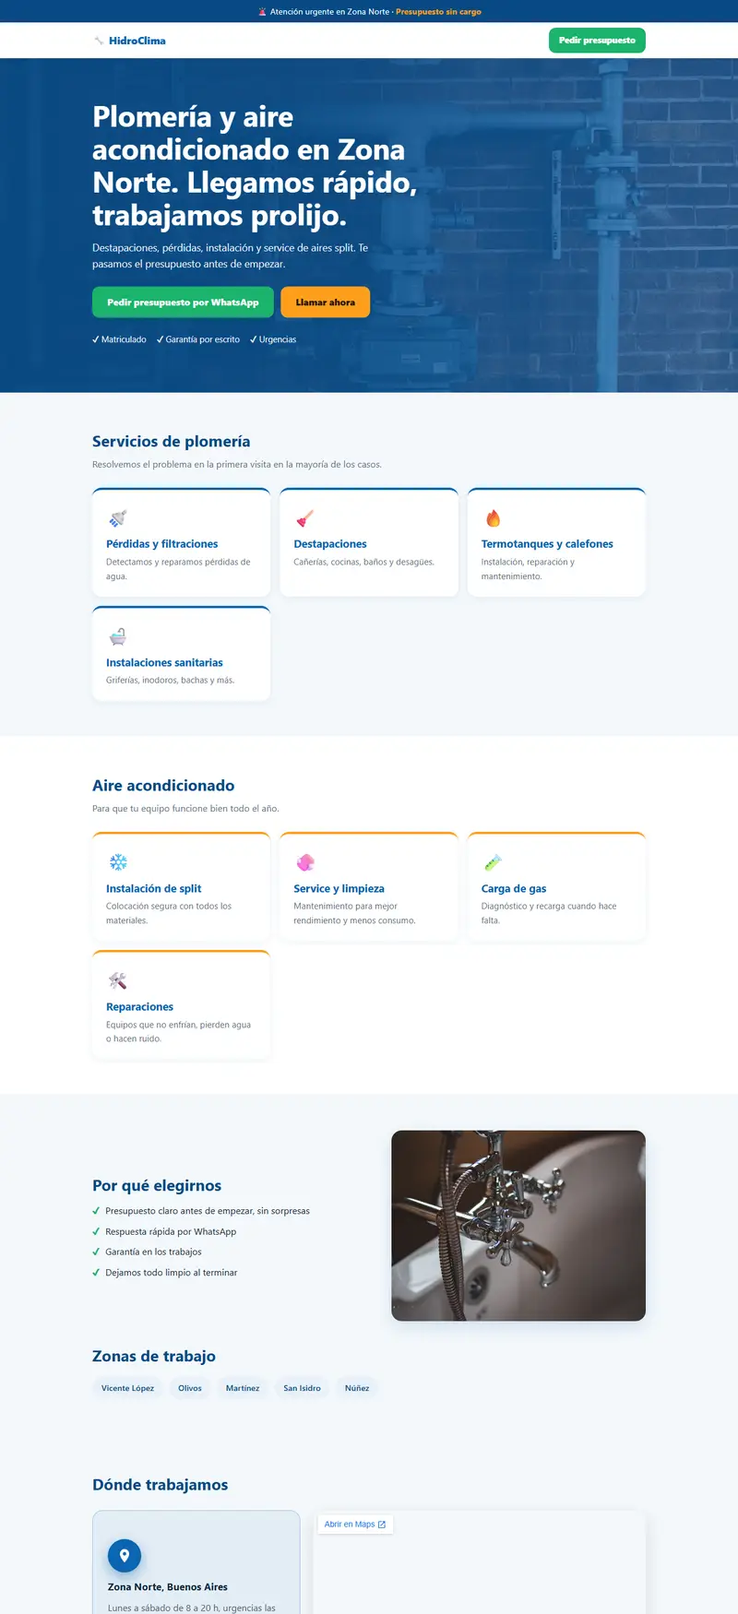
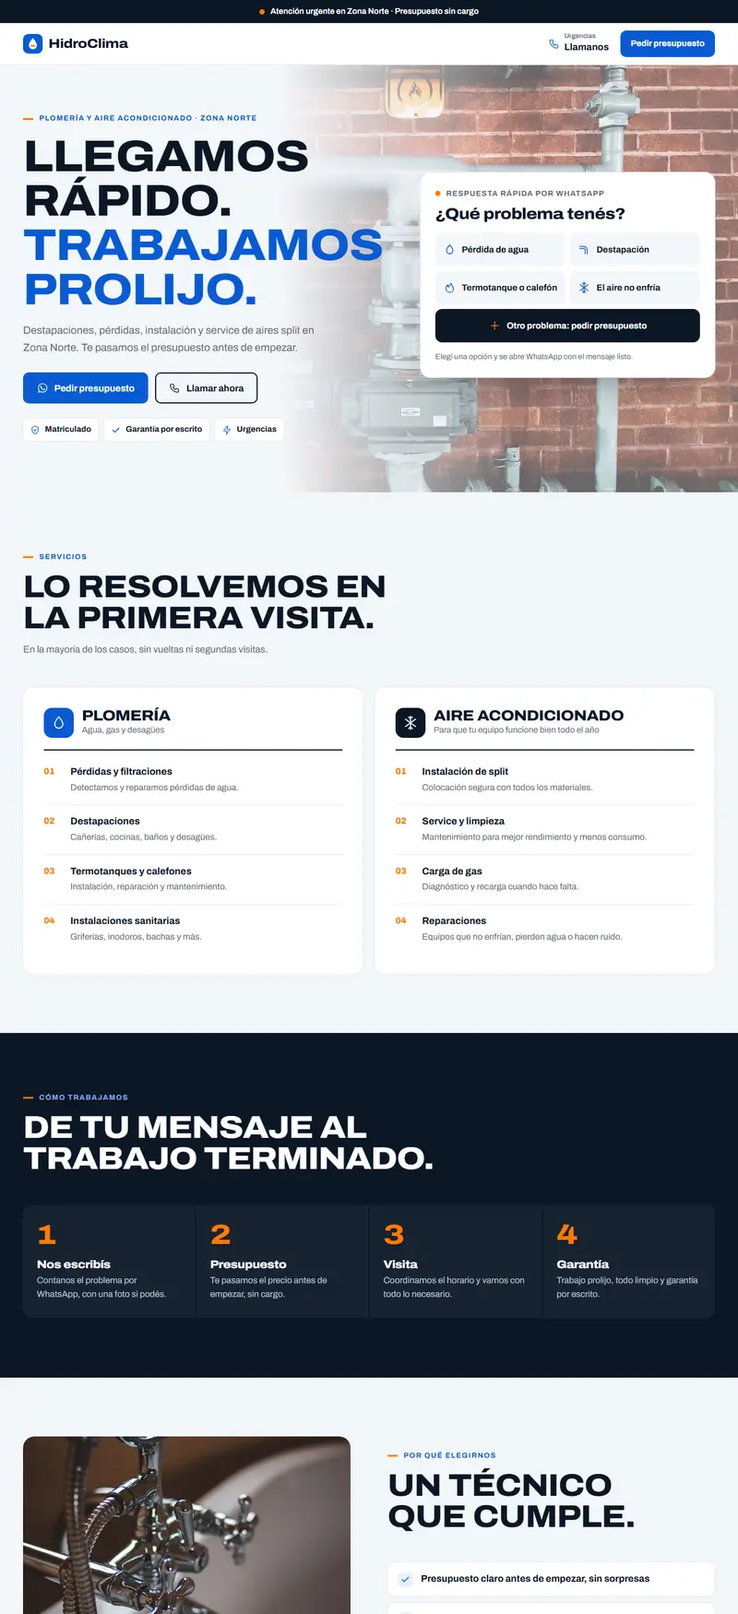
Demo HidroClima rediseñada: identidad técnica, selector de problema con WhatsApp y barra fija en celular

diff --git a/public/demos/servicio-tecnico/index.html b/public/demos/servicio-tecnico/index.html
@@ -3,155 +3,94 @@
 <head>
 <meta charset="UTF-8">
 <meta name="viewport" content="width=device-width, initial-scale=1">
-<title>HidroClima Servicios | Plomero y técnico de aire acondicionado en Zona Norte, CABA</title>
-<meta name="description" content="Plomería y aire acondicionado en Zona Norte, CABA: destapaciones, pérdidas, instalación y service de split. Presupuesto sin cargo y atención urgente.">
-<style>
-:root{--bg:#f4f8fb;--panel:#fff;--txt:#10283a;--suave:#5b7285;--azul:#0b64b0;--azul2:#084a85;--nar:#ff9f1c;--verde:#1bb36b}
-*{box-sizing:border-box;margin:0;padding:0}
-html{scroll-behavior:smooth}
-body{font-family:system-ui,-apple-system,"Segoe UI",Roboto,sans-serif;background:var(--bg);color:var(--txt);line-height:1.6}
-a{color:inherit;text-decoration:none}
-.wrap{max-width:1000px;margin:0 auto;padding:0 20px}
-.top{background:var(--azul2);color:#fff;font-size:.9rem;text-align:center;padding:8px}
-.top b{color:var(--nar)}
-header{position:sticky;top:0;background:#fff;box-shadow:0 1px 8px #0001;z-index:10}
-header .wrap{display:flex;justify-content:space-between;align-items:center;height:62px;gap:10px}
-.logo{font-weight:900;color:var(--azul);font-size:1.1rem}
-.btn{display:inline-block;background:var(--verde);color:#fff;font-weight:800;padding:14px 26px;border-radius:12px;transition:.2s}
-.btn:hover{transform:translateY(-2px);box-shadow:0 8px 20px #1bb36b55}
-.btn.s{padding:10px 18px;font-size:.92rem}
-.btn.n{background:var(--nar);color:#2a1700}
-.btn.n:hover{box-shadow:0 8px 20px #ff9f1c66}
-.hero{background:linear-gradient(110deg,#084a85f5 35%,#0b64b0aa),url(https://images.unsplash.com/photo-1607472586893-edb57bdc0e39?auto=format&fit=crop&w=1400&q=60) center/cover;color:#fff;padding:70px 0 80px}
-.hero h1{font-size:clamp(1.9rem,6vw,3.1rem);line-height:1.15;max-width:700px}
-.hero p{opacity:.92;max-width:540px;margin:16px 0 26px;font-size:1.1rem}
-.cta{display:flex;gap:12px;flex-wrap:wrap}
-.pts{display:flex;gap:18px;flex-wrap:wrap;margin-top:26px;font-size:.92rem;opacity:.95}
-section{padding:62px 0}
-h2{font-size:1.7rem;color:var(--azul2);margin-bottom:6px}
-.sub{color:var(--suave);margin-bottom:28px}
-.grid{display:grid;grid-template-columns:repeat(auto-fit,minmax(230px,1fr));gap:16px}
-.card{background:var(--panel);border-radius:16px;padding:24px;box-shadow:0 2px 12px #0b64b01a;transition:.25s;border-top:4px solid var(--azul)}
-.card:hover{transform:translateY(-4px)}
-.card.ac{border-top-color:var(--nar)}
-.card .ic{font-size:1.9rem}
-.card h3{color:var(--azul);margin:6px 0 4px}
-.card p{color:var(--suave);font-size:.95rem}
-.alt{background:#fff}
-.ul{list-style:none;display:grid;gap:10px;margin-top:10px}
-.ul li::before{content:"✔";color:var(--verde);margin-right:10px;font-weight:800}
-.zonas{display:flex;flex-wrap:wrap;gap:10px;margin-top:14px}
-.zonas span{background:#e8f1f9;color:var(--azul2);padding:8px 16px;border-radius:999px;font-weight:600;font-size:.9rem}
-.cierre{background:var(--azul2);color:#fff;text-align:center}
-.cierre h2{color:#fff}.cierre p{opacity:.92;margin:8px 0 24px}
-.split{display:grid;grid-template-columns:1.1fr 1fr;gap:34px;align-items:center}.split img{width:100%;aspect-ratio:4/3;object-fit:cover;border-radius:18px;box-shadow:0 10px 30px #0b64b02a}@media(max-width:760px){.split{grid-template-columns:1fr}}
-footer{padding:20px 0;text-align:center;color:var(--suave);font-size:.85rem}
-.bar{display:none}
-@media(max-width:640px){
- .bar{display:grid;grid-template-columns:1fr 1fr;position:fixed;left:0;right:0;bottom:0;z-index:30}
- .bar a{padding:16px;text-align:center;font-weight:800;color:#fff}
- .bar a:first-child{background:var(--azul)}.bar a:last-child{background:var(--verde)}
- body{padding-bottom:54px}
-}
-.reveal{opacity:0;transform:translateY(20px);transition:all .6s}.reveal.on{opacity:1;transform:none}
-.demo-ribbon{position:fixed;left:50%;bottom:14px;transform:translateX(-50%);z-index:50;display:flex;gap:10px;align-items:center;background:#0b0f14e6;color:#e8eef5;font:600 .78rem/1 system-ui,sans-serif;padding:9px 14px;border-radius:999px;box-shadow:0 6px 20px #0005;backdrop-filter:blur(6px);white-space:nowrap}
-.demo-ribbon a{color:#3ddc97}.embed .demo-ribbon{display:none}
-@media(max-width:640px){.demo-ribbon{bottom:auto;top:auto;position:static;transform:none;justify-content:center;border-radius:0;box-shadow:none}}
-:root{--fx:#0b64b0}.card.ac{--fx:#ff9f1c}
-.mapa{margin-top:22px;border-radius:16px;overflow:hidden;height:300px;box-shadow:0 4px 18px #0b64b022}.mapa iframe{width:100%;height:100%;border:0}
-</style>
-<link rel="stylesheet" href="../_fx/fx.css">
-<noscript><style>.reveal{opacity:1!important;transform:none!important}
-</style></noscript>
+<title>HidroClima Servicios | Plomería y aire acondicionado en Zona Norte</title>
+<meta name="description" content="Plomería y aire acondicionado en Zona Norte. Destapaciones, pérdidas, termotanques e instalación de split. Presupuesto sin cargo y urgencias.">
+<meta name="theme-color" content="#0b1726">
+<link rel="preconnect" href="https://fonts.googleapis.com"><link rel="preconnect" href="https://fonts.gstatic.com" crossorigin>
+<link rel="stylesheet" href="https://fonts.googleapis.com/css2?family=Archivo:wdth,wght@100..125,400..800&display=swap">
+<link rel="stylesheet" href="estilo.css">
+<link rel="stylesheet" href="../_fx/base.css">
+<script type="application/ld+json">{"@context":"https://schema.org","@type":"Plumber","name":"HidroClima Servicios","areaServed":"Zona Norte","telephone":"+5491100000000","openingHours":"Mo-Sa 08:00-20:00"}</script>
 </head>
 <body>
 <script>if(top!==self)document.documentElement.classList.add("embed")</script><div class="demo-ribbon">Proyecto demo · Página Start · datos ficticios <a href="../../">← Volver a Coudexia</a></div>
-
-<div class="top">🚨 Atención urgente en Zona Norte · <b>Presupuesto sin cargo</b></div>
+<div class="urgente"><div class="wrap"><span class="punto"></span>Atención urgente en Zona Norte · Presupuesto sin cargo</div></div>
 <header><div class="wrap">
-  <div class="logo">🔧 HidroClima</div>
-  <a class="btn s" href="https://wa.me/5491100000000?text=Hola!%20Necesito%20un%20presupuesto">Pedir presupuesto</a>
+  <span class="logo"><svg viewBox="0 0 34 34" aria-hidden="true"><rect width="34" height="34" rx="9" fill="var(--principal)"/><path d="M17 7s7 7.8 7 12.6A7 7 0 0 1 10 19.6C10 14.8 17 7 17 7Z" fill="#fff"/><path d="M13.5 20.5h7" stroke="var(--alerta)" stroke-width="2.4" stroke-linecap="round"/></svg>HidroClima</span>
+  <a class="tel-head" href="tel:+5491100000000"><svg viewBox="0 0 24 24" fill="none" stroke="currentColor" stroke-width="1.6" stroke-linecap="round" stroke-linejoin="round" aria-hidden="true"><path d="M5 4h4l2 5-2.5 1.5a11 11 0 0 0 5 5L15 13l5 2v4a2 2 0 0 1-2 2A16 16 0 0 1 3 6a2 2 0 0 1 2-2"/></svg><span><small>Urgencias</small>Llamanos</span></a>
+  <a class="btn cta-head" href="https://wa.me/5491100000000?text=Hola!%20Necesito%20un%20presupuesto">Pedir presupuesto</a>
 </div></header>
-
-<div class="hero"><div class="wrap">
-  <h1>Plomería y aire acondicionado en Zona Norte. Llegamos rápido, trabajamos prolijo.</h1>
-  <p>Destapaciones, pérdidas, instalación y service de aires split. Te pasamos el presupuesto antes de empezar.</p>
-  <div class="cta">
-    <a class="btn" href="https://wa.me/5491100000000?text=Hola!%20Necesito%20un%20presupuesto">Pedir presupuesto por WhatsApp</a>
-    <a class="btn n" href="tel:+5491100000000">Llamar ahora</a>
+<main>
+<section class="hero" style="--foto:url(https://images.unsplash.com/photo-1607472586893-edb57bdc0e39?auto=format&fit=crop&w=1600&q=70)"><div class="wrap">
+  <div>
+    <p class="marca-sec rv">Plomería y aire acondicionado · Zona Norte</p>
+    <h1 class="rv">Llegamos rápido. <span>Trabajamos prolijo.</span></h1>
+    <p class="lead rv">Destapaciones, pérdidas, instalación y service de aires split en Zona Norte. Te pasamos el presupuesto antes de empezar.</p>
+    <div class="cta-row rv"><a class="btn" href="https://wa.me/5491100000000?text=Hola!%20Necesito%20un%20presupuesto"><svg viewBox="0 0 32 32" fill="currentColor" aria-hidden="true"><path d="M16.04 3C8.86 3 3.03 8.82 3.03 16c0 2.3.6 4.53 1.74 6.5L3 29l6.68-1.75A12.95 12.95 0 0 0 16.04 29C23.2 29 29 23.18 29 16S23.2 3 16.04 3Zm0 23.66c-1.96 0-3.88-.53-5.56-1.52l-.4-.24-3.96 1.04 1.06-3.86-.26-.4A10.6 10.6 0 0 1 5.38 16c0-5.880 4.78-10.66 10.66-10.66S26.7 10.12 26.7 16s-4.78 10.66-10.66 10.66Zm5.85-7.98c-.32-.16-1.89-.93-2.18-1.04-.3-.1-.5-.16-.72.16-.21.32-.82 1.04-1.01 1.25-.18.21-.37.24-.69.08-.32-.16-1.35-.5-2.57-1.59-.95-.85-1.59-1.9-1.78-2.22-.18-.32-.02-.49.14-.65.14-.14.32-.37.48-.56.16-.18.21-.32.32-.53.1-.21.05-.4-.03-.56-.08-.16-.72-1.73-.98-2.37-.26-.62-.52-.54-.72-.55h-.61c-.21 0-.56.08-.85.4-.29.32-1.12 1.09-1.12 2.66s1.14 3.08 1.3 3.3c.16.2 2.25 3.43 5.45 4.81.76.33 1.35.52 1.81.67.76.24 1.46.2 2.01.12.61-.09 1.89-.77 2.15-1.52.27-.75.27-1.39.19-1.52-.08-.13-.29-.21-.61-.37Z"/></svg> Pedir presupuesto</a><a class="btn borde" href="tel:+5491100000000"><svg viewBox="0 0 24 24" fill="none" stroke="currentColor" stroke-width="1.6" stroke-linecap="round" stroke-linejoin="round" aria-hidden="true"><path d="M5 4h4l2 5-2.5 1.5a11 11 0 0 0 5 5L15 13l5 2v4a2 2 0 0 1-2 2A16 16 0 0 1 3 6a2 2 0 0 1 2-2"/></svg> Llamar ahora</a></div>
+    <ul class="sellos rv"><li><svg viewBox="0 0 24 24" fill="none" stroke="currentColor" stroke-width="1.6" stroke-linecap="round" stroke-linejoin="round" aria-hidden="true"><path d="M12 3 5 6v5c0 4.5 3 8.3 7 10 4-1.7 7-5.5 7-10V6l-7-3Z"/><path d="m9 12 2 2 4-4"/></svg> Matriculado</li><li><svg viewBox="0 0 24 24" fill="none" stroke="currentColor" stroke-width="2.2" stroke-linecap="round" stroke-linejoin="round" aria-hidden="true"><path d="m5 12.5 4.5 4.5L19 7.5"/></svg> Garantía por escrito</li><li><svg viewBox="0 0 24 24" fill="none" stroke="currentColor" stroke-width="1.6" stroke-linecap="round" stroke-linejoin="round" aria-hidden="true"><path d="M13 2 4 14h7l-1 8 9-12h-7l1-8Z"/></svg> Urgencias</li></ul>
   </div>
-  <div class="pts"><span>✔ Matriculado</span><span>✔ Garantía por escrito</span><span>✔ Urgencias</span></div>
-</div></div>
-
-<section><div class="wrap">
-  <h2 class="reveal">Servicios de plomería</h2>
-  <p class="sub reveal">Resolvemos el problema en la primera visita en la mayoría de los casos.</p>
-  <div class="grid">
-    <div class="card reveal"><div class="ic">🚿</div><h3>Pérdidas y filtraciones</h3><p>Detectamos y reparamos pérdidas de agua.</p></div>
-    <div class="card reveal"><div class="ic">🪠</div><h3>Destapaciones</h3><p>Cañerías, cocinas, baños y desagües.</p></div>
-    <div class="card reveal"><div class="ic">🔥</div><h3>Termotanques y calefones</h3><p>Instalación, reparación y mantenimiento.</p></div>
-    <div class="card reveal"><div class="ic">🛁</div><h3>Instalaciones sanitarias</h3><p>Griferías, inodoros, bachas y más.</p></div>
+  <div class="panel rv">
+    <p class="panel-top"><span class="punto"></span> Respuesta rápida por WhatsApp</p>
+    <h2>¿Qué problema tenés?</h2>
+    <div class="problemas"><a href="https://wa.me/5491100000000?text=Hola!%20Tengo%20una%20p%C3%A9rdida%20de%20agua"><svg viewBox="0 0 24 24" fill="none" stroke="currentColor" stroke-width="1.6" stroke-linecap="round" stroke-linejoin="round" aria-hidden="true"><path d="M12 3s6 6.7 6 11a6 6 0 0 1-12 0c0-4.3 6-11 6-11Z"/></svg>Pérdida de agua</a><a href="https://wa.me/5491100000000?text=Hola!%20Necesito%20una%20destapaci%C3%B3n"><svg viewBox="0 0 24 24" fill="none" stroke="currentColor" stroke-width="1.6" stroke-linecap="round" stroke-linejoin="round" aria-hidden="true"><path d="M4 10h7a3 3 0 0 1 3 3v7M4 6h7a7 7 0 0 1 7 7v7"/></svg>Destapación</a><a href="https://wa.me/5491100000000?text=Hola!%20Tengo%20un%20problema%20con%20el%20termotanque%20o%20calef%C3%B3n"><svg viewBox="0 0 24 24" fill="none" stroke="currentColor" stroke-width="1.6" stroke-linecap="round" stroke-linejoin="round" aria-hidden="true"><path d="M12 21c4 0 7-2.7 7-6.5 0-4.5-4-6.5-4-10.5-2.5 1.5-4.5 4-4.5 7-1.5-.8-2.5-2.3-2.5-4C5.5 9 5 11.5 5 14.5 5 18.3 8 21 12 21Z"/></svg>Termotanque o calefón</a><a href="https://wa.me/5491100000000?text=Hola!%20Mi%20aire%20acondicionado%20no%20enfr%C3%ADa"><svg viewBox="0 0 24 24" fill="none" stroke="currentColor" stroke-width="1.6" stroke-linecap="round" stroke-linejoin="round" aria-hidden="true"><path d="M12 2v20M4.5 6.5l15 11M19.5 6.5l-15 11"/><path d="m9 3.5 3 2 3-2M9 20.5l3-2 3 2"/></svg>El aire no enfría</a><a class="otro" href="https://wa.me/5491100000000?text=Hola!%20Necesito%20un%20presupuesto"><svg viewBox="0 0 24 24" fill="none" stroke="currentColor" stroke-width="1.6" stroke-linecap="round" stroke-linejoin="round" aria-hidden="true"><path d="M12 5v14M5 12h14"/></svg>Otro problema: pedir presupuesto</a></div>
+    <small>Elegí una opción y se abre WhatsApp con el mensaje listo.</small>
   </div>
 </div></section>
 
-<section class="alt"><div class="wrap">
-  <h2 class="reveal">Aire acondicionado</h2>
-  <p class="sub reveal">Para que tu equipo funcione bien todo el año.</p>
-  <div class="grid">
-    <div class="card ac reveal"><div class="ic">❄</div><h3>Instalación de split</h3><p>Colocación segura con todos los materiales.</p></div>
-    <div class="card ac reveal"><div class="ic">🧼</div><h3>Service y limpieza</h3><p>Mantenimiento para mejor rendimiento y menos consumo.</p></div>
-    <div class="card ac reveal"><div class="ic">🧪</div><h3>Carga de gas</h3><p>Diagnóstico y recarga cuando hace falta.</p></div>
-    <div class="card ac reveal"><div class="ic">🛠</div><h3>Reparaciones</h3><p>Equipos que no enfrían, pierden agua o hacen ruido.</p></div>
+<section id="servicios"><div class="wrap">
+  <div class="cab"><p class="marca-sec rv">Servicios</p><h2 class="rv">Lo resolvemos en la primera visita.</h2><p class="lead rv" style="color:var(--suave)">En la mayoría de los casos, sin vueltas ni segundas visitas.</p></div>
+  <div class="servicios-grid">
+    <article class="rubro rv"><div class="rubro-cab"><span class="ic"><svg viewBox="0 0 24 24" fill="none" stroke="currentColor" stroke-width="1.6" stroke-linecap="round" stroke-linejoin="round" aria-hidden="true"><path d="M12 3s6 6.7 6 11a6 6 0 0 1-12 0c0-4.3 6-11 6-11Z"/></svg></span><div><h3>Plomería</h3><p>Agua, gas y desagües</p></div></div><ul><li><span class="n">01</span><div><b>Pérdidas y filtraciones</b><span>Detectamos y reparamos pérdidas de agua.</span></div></li><li><span class="n">02</span><div><b>Destapaciones</b><span>Cañerías, cocinas, baños y desagües.</span></div></li><li><span class="n">03</span><div><b>Termotanques y calefones</b><span>Instalación, reparación y mantenimiento.</span></div></li><li><span class="n">04</span><div><b>Instalaciones sanitarias</b><span>Griferías, inodoros, bachas y más.</span></div></li></ul></article>
+    <article class="rubro frio rv"><div class="rubro-cab"><span class="ic"><svg viewBox="0 0 24 24" fill="none" stroke="currentColor" stroke-width="1.6" stroke-linecap="round" stroke-linejoin="round" aria-hidden="true"><path d="M12 2v20M4.5 6.5l15 11M19.5 6.5l-15 11"/><path d="m9 3.5 3 2 3-2M9 20.5l3-2 3 2"/></svg></span><div><h3>Aire acondicionado</h3><p>Para que tu equipo funcione bien todo el año</p></div></div><ul><li><span class="n">01</span><div><b>Instalación de split</b><span>Colocación segura con todos los materiales.</span></div></li><li><span class="n">02</span><div><b>Service y limpieza</b><span>Mantenimiento para mejor rendimiento y menos consumo.</span></div></li><li><span class="n">03</span><div><b>Carga de gas</b><span>Diagnóstico y recarga cuando hace falta.</span></div></li><li><span class="n">04</span><div><b>Reparaciones</b><span>Equipos que no enfrían, pierden agua o hacen ruido.</span></div></li></ul></article>
   </div>
 </div></section>
 
-<section><div class="wrap">
-  <div class="split"><div>
-  <h2 class="reveal">Por qué elegirnos</h2>
-  <ul class="ul reveal">
-    <li>Presupuesto claro antes de empezar, sin sorpresas</li>
-    <li>Respuesta rápida por WhatsApp</li>
-    <li>Garantía en los trabajos</li>
-    <li>Dejamos todo limpio al terminar</li>
-  </ul>
-  </div><img class="reveal" src="https://images.unsplash.com/photo-1585704032915-c3400ca199e7?auto=format&fit=crop&w=900&q=60" alt="Reparación de grifería" loading="lazy"></div>
-  <h2 class="reveal" style="margin-top:38px">Zonas de trabajo</h2>
-  <div class="zonas reveal"><span>Vicente López</span><span>Olivos</span><span>Martínez</span><span>San Isidro</span><span>Núñez</span></div>
+<section class="proceso"><div class="wrap">
+  <div class="cab"><p class="marca-sec rv">Cómo trabajamos</p><h2 class="rv">De tu mensaje al trabajo terminado.</h2></div>
+  <ol class="pasos">
+    <li class="rv"><h3>Nos escribís</h3><p>Contanos el problema por WhatsApp, con una foto si podés.</p></li>
+    <li class="rv"><h3>Presupuesto</h3><p>Te pasamos el precio antes de empezar, sin cargo.</p></li>
+    <li class="rv"><h3>Visita</h3><p>Coordinamos el horario y vamos con todo lo necesario.</p></li>
+    <li class="rv"><h3>Garantía</h3><p>Trabajo prolijo, todo limpio y garantía por escrito.</p></li>
+  </ol>
+</div></section>
+
+<section><div class="wrap porque">
+  <img class="rv" src="https://images.unsplash.com/photo-1585704032915-c3400ca199e7?auto=format&fit=crop&w=1000&q=70" alt="Reparación de grifería" loading="lazy">
+  <div>
+    <div class="cab"><p class="marca-sec rv">Por qué elegirnos</p><h2 class="rv">Un técnico que cumple.</h2></div>
+    <ul class="checks"><li class="rv"><svg viewBox="0 0 24 24" fill="none" stroke="currentColor" stroke-width="2.2" stroke-linecap="round" stroke-linejoin="round" aria-hidden="true"><path d="m5 12.5 4.5 4.5L19 7.5"/></svg>Presupuesto claro antes de empezar, sin sorpresas</li><li class="rv"><svg viewBox="0 0 24 24" fill="none" stroke="currentColor" stroke-width="2.2" stroke-linecap="round" stroke-linejoin="round" aria-hidden="true"><path d="m5 12.5 4.5 4.5L19 7.5"/></svg>Respuesta rápida por WhatsApp</li><li class="rv"><svg viewBox="0 0 24 24" fill="none" stroke="currentColor" stroke-width="2.2" stroke-linecap="round" stroke-linejoin="round" aria-hidden="true"><path d="m5 12.5 4.5 4.5L19 7.5"/></svg>Garantía en los trabajos</li><li class="rv"><svg viewBox="0 0 24 24" fill="none" stroke="currentColor" stroke-width="2.2" stroke-linecap="round" stroke-linejoin="round" aria-hidden="true"><path d="m5 12.5 4.5 4.5L19 7.5"/></svg>Dejamos todo limpio al terminar</li></ul>
+  </div>
 </div></section>
 
 <!--ubicacion-->
-<section class="ubicacion" id="ubicacion"><div class="wrap">
-  <h2 class="reveal">Dónde trabajamos</h2>
-  <div class="ubi-grid">
-    <div class="ubi-info reveal">
-      <a class="ubi-pin" href="https://www.google.com/maps/search/?api=1&query=Zona%20Norte%2C%20Buenos%20Aires" target="_blank" rel="noopener" aria-label="Abrir en Google Maps"><svg viewBox="0 0 24 24" width="22" height="22" aria-hidden="true"><path fill="currentColor" d="M12 2a7 7 0 0 0-7 7c0 5.25 7 13 7 13s7-7.75 7-13a7 7 0 0 0-7-7Zm0 9.5A2.5 2.5 0 1 1 12 6.5a2.5 2.5 0 0 1 0 5Z"/></svg></a>
-      <p class="ubi-dir">Zona Norte, Buenos Aires</p>
-      <p class="ubi-hor">Lunes a sábado de 8 a 20 h, urgencias las 24 h.</p>
-      <a class="ubi-btn" href="https://www.google.com/maps/search/?api=1&query=Zona%20Norte%2C%20Buenos%20Aires" target="_blank" rel="noopener"><svg viewBox="0 0 24 24" width="22" height="22" aria-hidden="true"><path fill="currentColor" d="M12 2a7 7 0 0 0-7 7c0 5.25 7 13 7 13s7-7.75 7-13a7 7 0 0 0-7-7Zm0 9.5A2.5 2.5 0 1 1 12 6.5a2.5 2.5 0 0 1 0 5Z"/></svg> Cómo llegar</a>
-    </div>
-    <div class="ubi-mapa reveal"><iframe src="https://maps.google.com/maps?q=Zona%20Norte%2C%20Buenos%20Aires&z=11&output=embed" title="Mapa de ubicación" loading="lazy" referrerpolicy="no-referrer-when-downgrade"></iframe></div>
+<section id="zonas" style="padding-top:0"><div class="wrap zonas">
+  <div class="zonas-info rv">
+    <p class="marca-sec" style="color:#fff">Zonas de trabajo</p>
+    <h2>Trabajamos en Zona Norte</h2>
+    <div class="barrios"><span>Vicente López</span><span>Olivos</span><span>Martínez</span><span>San Isidro</span><span>Núñez</span></div>
+    <p>Lunes a sábado de 8 a 20 h, urgencias las 24 h.</p>
+    <a class="btn blanco" href="https://www.google.com/maps/search/?api=1&query=Zona%20Norte%2C%20Buenos%20Aires" target="_blank" rel="noopener"><svg viewBox="0 0 24 24" fill="none" stroke="currentColor" stroke-width="1.6" stroke-linecap="round" stroke-linejoin="round" aria-hidden="true"><path d="M12 21s-7-6.2-7-11.5A7 7 0 0 1 19 9.5C19 14.8 12 21 12 21Z"/><circle cx="12" cy="9.5" r="2.5"/></svg> Ver en el mapa</a>
   </div>
+  <div class="mapa rv"><iframe src="https://maps.google.com/maps?q=Zona%20Norte%2C%20Buenos%20Aires&z=12&output=embed" title="Mapa de la zona de trabajo" loading="lazy" referrerpolicy="no-referrer-when-downgrade"></iframe></div>
 </div></section>
 <!--/ubicacion-->
 <!--ig-->
-<section class="redes"><div class="wrap">
-  <h2 class="reveal">Seguinos en redes</h2>
-  <p class="redes-sub reveal">Novedades, promociones y trabajos todos los días en Instagram.</p>
-  <a class="ig-btn reveal" href="https://www.instagram.com/hidroclima.demo/" target="_blank" rel="noopener"><svg viewBox="0 0 24 24" width="22" height="22" aria-hidden="true"><path fill="currentColor" d="M12 2.2c3.2 0 3.6 0 4.8.1 3.2.1 4.8 1.7 4.9 4.9.1 1.3.1 1.6.1 4.8s0 3.6-.1 4.8c-.1 3.2-1.7 4.8-4.9 4.9-1.3.1-1.6.1-4.8.1s-3.6 0-4.8-.1c-3.3-.1-4.8-1.7-4.9-4.9C2.2 15.6 2.2 15.2 2.2 12s0-3.6.1-4.8C2.4 3.9 3.9 2.4 7.2 2.3 8.4 2.2 8.8 2.2 12 2.2ZM12 0C8.7 0 8.3 0 7.1.1 2.7.3.3 2.7.1 7.1 0 8.3 0 8.7 0 12s0 3.7.1 4.9c.2 4.4 2.6 6.8 7 7 1.2.1 1.6.1 4.9.1s3.7 0 4.9-.1c4.4-.2 6.8-2.6 7-7 .1-1.2.1-1.6.1-4.9s0-3.7-.1-4.9c-.2-4.4-2.6-6.8-7-7C15.7 0 15.3 0 12 0Zm0 5.8a6.2 6.2 0 1 0 0 12.4 6.2 6.2 0 0 0 0-12.4ZM12 16a4 4 0 1 1 0-8 4 4 0 0 1 0 8Zm6.4-11.8a1.4 1.4 0 1 0 0 2.9 1.4 1.4 0 0 0 0-2.9Z"/></svg> @hidroclima.demo</a>
+<section class="redes"><div class="wrap rv">
+  <div><h2>Seguinos en redes</h2><p>Trabajos terminados y consejos de mantenimiento en Instagram.</p></div>
+  <a class="ig" href="https://www.instagram.com/hidroclima.demo/" target="_blank" rel="noopener"><svg viewBox="0 0 24 24" fill="none" stroke="currentColor" stroke-width="1.8" aria-hidden="true"><rect x="3" y="3" width="18" height="18" rx="5"/><circle cx="12" cy="12" r="4"/><circle cx="17.5" cy="6.5" r="1" fill="currentColor"/></svg> @hidroclima.demo</a>
 </div></section>
 <!--/ig-->
-<section class="cierre"><div class="wrap">
-  <h2 class="reveal">¿Tenés una urgencia?</h2>
-  <p class="reveal">Escribinos o llamanos y coordinamos hoy mismo. Lunes a sábado de 8 a 20 h, urgencias las 24 h.</p>
-  <a class="btn" href="https://wa.me/5491100000000?text=Hola!%20Tengo%20una%20urgencia">Escribir por WhatsApp</a>
+<section class="final"><div class="wrap rv">
+  <div><h2>¿Tenés una urgencia?</h2><p>Escribinos o llamanos y coordinamos hoy mismo. Lunes a sábado de 8 a 20 h, urgencias las 24 h.</p></div>
+  <div class="acciones"><a class="btn" href="https://wa.me/5491100000000?text=Hola!%20Tengo%20una%20urgencia"><svg viewBox="0 0 32 32" fill="currentColor" aria-hidden="true"><path d="M16.04 3C8.86 3 3.03 8.82 3.03 16c0 2.3.6 4.53 1.74 6.5L3 29l6.68-1.75A12.95 12.95 0 0 0 16.04 29C23.2 29 29 23.18 29 16S23.2 3 16.04 3Zm0 23.66c-1.96 0-3.88-.53-5.56-1.52l-.4-.24-3.96 1.04 1.06-3.86-.26-.4A10.6 10.6 0 0 1 5.38 16c0-5.880 4.78-10.66 10.66-10.66S26.7 10.12 26.7 16s-4.78 10.66-10.66 10.66Zm5.85-7.98c-.32-.16-1.89-.93-2.18-1.04-.3-.1-.5-.16-.72.16-.21.32-.82 1.04-1.01 1.25-.18.21-.37.24-.69.08-.32-.16-1.35-.5-2.57-1.59-.95-.85-1.59-1.9-1.78-2.22-.18-.32-.02-.49.14-.65.14-.14.32-.37.48-.56.16-.18.21-.32.32-.53.1-.21.05-.4-.03-.56-.08-.16-.72-1.73-.98-2.37-.26-.62-.52-.54-.72-.55h-.61c-.21 0-.56.08-.85.4-.29.32-1.12 1.09-1.12 2.66s1.14 3.08 1.3 3.3c.16.2 2.25 3.43 5.45 4.81.76.33 1.35.52 1.81.67.76.24 1.46.2 2.01.12.61-.09 1.89-.77 2.15-1.52.27-.75.27-1.39.19-1.52-.08-.13-.29-.21-.61-.37Z"/></svg> Escribir por WhatsApp</a><a class="btn blanco" href="tel:+5491100000000"><svg viewBox="0 0 24 24" fill="none" stroke="currentColor" stroke-width="1.6" stroke-linecap="round" stroke-linejoin="round" aria-hidden="true"><path d="M5 4h4l2 5-2.5 1.5a11 11 0 0 0 5 5L15 13l5 2v4a2 2 0 0 1-2 2A16 16 0 0 1 3 6a2 2 0 0 1 2-2"/></svg> Llamar</a></div>
 </div></section>
-
-<footer>© 2026 HidroClima Servicios · Matrícula 18.437</footer>
-<div class="bar"><a href="tel:+5491100000000">📞 Llamar</a><a href="https://wa.me/5491100000000?text=Hola!%20Necesito%20un%20presupuesto">💬 WhatsApp</a></div>
-<script>
-const io=new IntersectionObserver(es=>es.forEach(e=>{if(e.isIntersecting)e.target.classList.add('on')}),{threshold:.15});
-document.querySelectorAll('.reveal').forEach(el=>io.observe(el));
-</script>
-<script src="../_fx/fx.js" defer></script>
+</main>
+<footer class="pie"><div class="wrap">
+  <p>© 2026 HidroClima Servicios · Matrícula 18.437</p>
+  <!--ig--><a class="ig-pie" href="https://www.instagram.com/hidroclima.demo/" target="_blank" rel="noopener"><svg viewBox="0 0 24 24" fill="none" stroke="currentColor" stroke-width="1.8" aria-hidden="true"><rect x="3" y="3" width="18" height="18" rx="5"/><circle cx="12" cy="12" r="4"/><circle cx="17.5" cy="6.5" r="1" fill="currentColor"/></svg> @hidroclima.demo</a><!--/ig-->
+</div></footer>
+<nav class="bar" aria-label="Contacto rápido"><a href="tel:+5491100000000"><svg viewBox="0 0 24 24" fill="none" stroke="currentColor" stroke-width="1.6" stroke-linecap="round" stroke-linejoin="round" aria-hidden="true"><path d="M5 4h4l2 5-2.5 1.5a11 11 0 0 0 5 5L15 13l5 2v4a2 2 0 0 1-2 2A16 16 0 0 1 3 6a2 2 0 0 1 2-2"/></svg> Llamar</a><a class="wa-bar" href="https://wa.me/5491100000000?text=Hola!%20Necesito%20un%20presupuesto"><svg viewBox="0 0 32 32" fill="currentColor" aria-hidden="true"><path d="M16.04 3C8.86 3 3.03 8.82 3.03 16c0 2.3.6 4.53 1.74 6.5L3 29l6.68-1.75A12.95 12.95 0 0 0 16.04 29C23.2 29 29 23.18 29 16S23.2 3 16.04 3Zm0 23.66c-1.96 0-3.88-.53-5.56-1.52l-.4-.24-3.96 1.04 1.06-3.86-.26-.4A10.6 10.6 0 0 1 5.38 16c0-5.880 4.78-10.66 10.66-10.66S26.7 10.12 26.7 16s-4.78 10.66-10.66 10.66Zm5.85-7.98c-.32-.16-1.89-.93-2.18-1.04-.3-.1-.5-.16-.72.16-.21.32-.82 1.04-1.01 1.25-.18.21-.37.24-.69.08-.32-.16-1.35-.5-2.57-1.59-.95-.85-1.59-1.9-1.78-2.22-.18-.32-.02-.49.14-.65.14-.14.32-.37.48-.56.16-.18.21-.32.32-.53.1-.21.05-.4-.03-.56-.08-.16-.72-1.73-.98-2.37-.26-.62-.52-.54-.72-.55h-.61c-.21 0-.56.08-.85.4-.29.32-1.12 1.09-1.12 2.66s1.14 3.08 1.3 3.3c.16.2 2.25 3.43 5.45 4.81.76.33 1.35.52 1.81.67.76.24 1.46.2 2.01.12.61-.09 1.89-.77 2.15-1.52.27-.75.27-1.39.19-1.52-.08-.13-.29-.21-.61-.37Z"/></svg> WhatsApp</a></nav>
+<script src="../_fx/base.js" defer></script>
 </body>
 </html>

diff --git a/public/demos/servicio-tecnico/estilo.css b/public/demos/servicio-tecnico/estilo.css
@@ -1,0 +1,173 @@
+/* HidroClima: servicio técnico, directo y confiable. Los colores de marca están solo acá (el generador de borradores los reemplaza). */
+:root {
+  --principal: #0a5bd3;
+  --alerta: #ff7a00;
+  --tinta: #0b1726;
+  --fx: var(--principal);
+  --fondo: #f3f6fa;
+  --papel: #ffffff;
+  --suave: color-mix(in srgb, var(--tinta) 64%, #ffffff);
+  --linea: color-mix(in srgb, var(--tinta) 11%, #ffffff);
+  --hielo: color-mix(in srgb, var(--principal) 10%, #ffffff);
+  --display: "Archivo", system-ui, sans-serif;
+  --ease: cubic-bezier(.2, .8, .2, 1);
+}
+* { box-sizing: border-box; margin: 0; padding: 0; }
+html { scroll-behavior: smooth; scroll-padding-top: 110px; -webkit-text-size-adjust: 100%; }
+body { font-family: "Archivo", system-ui, -apple-system, "Segoe UI", sans-serif; background: var(--fondo); color: var(--tinta); line-height: 1.6; font-size: 1.03rem; -webkit-font-smoothing: antialiased; }
+img { display: block; max-width: 100%; }
+a { color: inherit; }
+button { font: inherit; color: inherit; }
+:focus-visible { outline: 2.5px solid var(--alerta); outline-offset: 3px; border-radius: 6px; }
+.wrap { width: min(1200px, 100% - 40px); margin-inline: auto; }
+h1, h2, h3 { font-family: var(--display); font-stretch: 112%; font-weight: 800; line-height: 1; letter-spacing: -.02em; text-wrap: balance; }
+h2 { font-size: clamp(2rem, 4.6vw, 3.4rem); text-transform: uppercase; }
+p { text-wrap: pretty; }
+.marca-sec { display: inline-flex; align-items: center; gap: 10px; font-size: .78rem; font-weight: 700; letter-spacing: .12em; text-transform: uppercase; color: var(--principal); }
+.marca-sec::before { content: ""; width: 18px; height: 3px; background: var(--alerta); }
+section { padding: clamp(64px, 8vw, 112px) 0; }
+.cab { display: grid; gap: 14px; max-width: 720px; margin-bottom: clamp(32px, 5vw, 52px); }
+
+/* Botones */
+.btn { display: inline-flex; align-items: center; justify-content: center; gap: 10px; min-height: 54px; padding: 0 24px; border-radius: 10px; border: 0; background: var(--principal); color: #fff; font-weight: 700; font-size: 1rem; text-decoration: none; cursor: pointer; transition: transform .25s var(--ease), background-color .2s, box-shadow .25s; }
+.btn:hover { transform: translateY(-2px); box-shadow: 0 12px 24px -12px var(--principal); }
+.btn.alerta { background: var(--alerta); color: var(--tinta); }
+.btn.alerta:hover { box-shadow: 0 12px 24px -12px var(--alerta); }
+.btn.borde { background: transparent; color: var(--tinta); box-shadow: inset 0 0 0 2px var(--tinta); }
+.btn.borde:hover { background: var(--tinta); color: #fff; box-shadow: none; }
+.btn.blanco { background: #fff; color: var(--tinta); }
+.btn svg { width: 20px; height: 20px; }
+
+/* Franja de urgencias */
+.urgente { background: var(--tinta); color: #fff; font-size: .88rem; font-weight: 600; }
+.urgente .wrap { display: flex; justify-content: center; align-items: center; gap: 10px; min-height: 40px; text-align: center; }
+.punto { width: 9px; height: 9px; border-radius: 50%; background: var(--alerta); box-shadow: 0 0 0 0 color-mix(in srgb, var(--alerta) 70%, transparent); animation: late 1.8s infinite; flex: none; }
+@keyframes late { 70% { box-shadow: 0 0 0 8px transparent; } }
+
+/* Encabezado */
+header { position: sticky; top: 0; z-index: 60; background: var(--papel); border-bottom: 1px solid var(--linea); transition: box-shadow .3s; }
+.bajo header { box-shadow: 0 10px 30px -20px #0b172666; }
+header .wrap { display: flex; align-items: center; gap: 20px; height: 72px; }
+.logo { display: inline-flex; align-items: center; gap: 10px; margin-right: auto; font-family: var(--display); font-stretch: 115%; font-size: 1.4rem; font-weight: 800; letter-spacing: -.02em; }
+.logo svg { width: 34px; height: 34px; flex: none; }
+.tel-head { display: inline-flex; align-items: center; gap: 8px; font-weight: 700; text-decoration: none; }
+.tel-head svg { width: 20px; height: 20px; color: var(--principal); }
+.tel-head small { display: block; font-size: .72rem; font-weight: 600; color: var(--suave); line-height: 1; }
+.cta-head { min-height: 46px; padding: 0 18px; font-size: .92rem; }
+
+/* Portada con selector de problema */
+.hero { position: relative; padding: clamp(40px, 6vw, 80px) 0 clamp(56px, 7vw, 96px); background: linear-gradient(90deg, var(--fondo) 38%, color-mix(in srgb, var(--fondo) 30%, transparent) 70%), var(--foto) center / cover; }
+.hero .wrap { display: grid; grid-template-columns: minmax(0, 1.1fr) minmax(0, .9fr); gap: clamp(28px, 5vw, 64px); align-items: center; }
+.hero h1 { font-size: clamp(2.6rem, 6vw, 4.8rem); text-transform: uppercase; margin: 18px 0 18px; }
+.hero h1 span { color: var(--principal); }
+.hero .lead { font-size: 1.15rem; color: var(--suave); max-width: 520px; }
+.cta-row { display: flex; flex-wrap: wrap; gap: 12px; margin-top: 28px; }
+.sellos { list-style: none; display: flex; flex-wrap: wrap; gap: 10px; margin-top: 26px; }
+.sellos li { display: inline-flex; align-items: center; gap: 8px; padding: 8px 12px; border-radius: 8px; background: var(--papel); box-shadow: 0 0 0 1px var(--linea); font-size: .88rem; font-weight: 700; }
+.sellos svg { width: 18px; height: 18px; color: var(--principal); }
+.panel { padding: 26px; border-radius: 18px; background: var(--papel); box-shadow: 0 30px 60px -30px #0b172680, 0 0 0 1px var(--linea); }
+.panel-top { display: flex; align-items: center; gap: 10px; font-size: .82rem; font-weight: 700; color: var(--suave); text-transform: uppercase; letter-spacing: .08em; }
+.panel h2 { font-size: 1.7rem; text-transform: none; margin: 12px 0 18px; }
+.problemas { display: grid; grid-template-columns: 1fr 1fr; gap: 8px; }
+.problemas a { display: flex; align-items: center; gap: 10px; min-height: 58px; padding: 10px 14px; border-radius: 12px; background: var(--fondo); font-weight: 700; font-size: .95rem; text-decoration: none; transition: background-color .2s, color .2s, transform .25s var(--ease); }
+.problemas a:hover { background: var(--principal); color: #fff; transform: translateY(-2px); }
+.problemas svg { width: 22px; height: 22px; flex: none; color: var(--principal); transition: color .2s; }
+.problemas a:hover svg { color: #fff; }
+.problemas a.otro { grid-column: 1 / -1; justify-content: center; background: var(--tinta); color: #fff; }
+.problemas a.otro svg { color: var(--alerta); }
+.panel small { display: block; margin-top: 14px; color: var(--suave); font-size: .84rem; }
+
+/* Servicios */
+.servicios-grid { display: grid; grid-template-columns: repeat(2, minmax(0, 1fr)); gap: 20px; }
+.rubro { padding: clamp(24px, 3vw, 36px); border-radius: 20px; background: var(--papel); box-shadow: 0 0 0 1px var(--linea); }
+.rubro-cab { display: flex; align-items: center; gap: 14px; padding-bottom: 20px; margin-bottom: 8px; border-bottom: 2px solid var(--tinta); }
+.rubro-cab .ic { display: grid; place-items: center; width: 52px; height: 52px; border-radius: 14px; background: var(--principal); color: #fff; }
+.rubro-cab .ic svg { width: 28px; height: 28px; }
+.rubro.frio .rubro-cab .ic { background: var(--tinta); }
+.rubro h3 { font-size: clamp(1.25rem, 4.6vw, 1.6rem); text-transform: uppercase; overflow-wrap: anywhere; }
+.rubro-cab p { color: var(--suave); font-size: .92rem; }
+.rubro ul { list-style: none; }
+.rubro li { display: grid; grid-template-columns: 34px 1fr; gap: 12px; padding: 16px 0; border-bottom: 1px solid var(--linea); }
+.rubro li:last-child { border-bottom: 0; }
+.rubro li .n { font-family: var(--display); font-weight: 800; color: var(--alerta); }
+.rubro li b { display: block; font-size: 1.05rem; }
+.rubro li span { color: var(--suave); font-size: .95rem; }
+
+/* Cómo trabajamos */
+.proceso { background: var(--tinta); color: #fff; }
+.proceso h2 { color: #fff; }
+.proceso .marca-sec { color: color-mix(in srgb, var(--principal) 50%, #fff); }
+.pasos { list-style: none; display: grid; grid-template-columns: repeat(4, minmax(0, 1fr)); gap: 2px; counter-reset: p; }
+.pasos li { position: relative; padding: 28px 24px 30px; background: #ffffff0d; counter-increment: p; }
+.pasos li:first-child { border-radius: 16px 0 0 16px; }
+.pasos li:last-child { border-radius: 0 16px 16px 0; }
+.pasos li::before { content: counter(p); display: block; font-family: var(--display); font-stretch: 120%; font-weight: 800; font-size: 3rem; line-height: 1; color: var(--alerta); margin-bottom: 18px; }
+.pasos h3 { font-size: 1.2rem; margin-bottom: 6px; }
+.pasos p { color: #b8c4d4; font-size: .95rem; }
+
+/* Por qué */
+.porque { display: grid; grid-template-columns: minmax(0, 1fr) minmax(0, 1fr); gap: clamp(28px, 5vw, 64px); align-items: center; }
+.porque img { width: 100%; aspect-ratio: 4 / 3.6; object-fit: cover; border-radius: 20px; }
+.checks { list-style: none; display: grid; gap: 12px; margin-top: 8px; }
+.checks li { display: flex; gap: 14px; align-items: center; padding: 16px 18px; border-radius: 12px; background: var(--papel); box-shadow: 0 0 0 1px var(--linea); font-weight: 700; }
+.checks svg { width: 26px; height: 26px; flex: none; padding: 4px; border-radius: 8px; background: var(--hielo); color: var(--principal); }
+
+/* Zonas */
+.zonas { display: grid; grid-template-columns: minmax(0, .9fr) minmax(0, 1.1fr); gap: 20px; }
+.zonas-info { display: flex; flex-direction: column; gap: 16px; padding: clamp(24px, 4vw, 40px); border-radius: 20px; background: var(--principal); color: #fff; }
+.zonas-info h2 { color: #fff; }
+.zonas-info p { color: #dbe7fb; }
+.barrios { display: flex; flex-wrap: wrap; gap: 8px; }
+.barrios span { padding: 8px 14px; border-radius: 999px; background: #ffffff1f; font-weight: 700; font-size: .92rem; }
+.zonas-info .btn { align-self: flex-start; margin-top: auto; }
+.mapa { min-height: 380px; border-radius: 20px; overflow: hidden; box-shadow: 0 0 0 1px var(--linea); }
+.mapa iframe { display: block; width: 100%; height: 100%; min-height: 380px; border: 0; }
+
+/* Instagram */
+.redes .wrap { display: flex; flex-wrap: wrap; align-items: center; justify-content: space-between; gap: 16px; padding: 26px 30px; border-radius: 18px; background: var(--papel); box-shadow: 0 0 0 1px var(--linea); }
+.redes h2 { font-size: 1.4rem; }
+.redes p { color: var(--suave); }
+.ig { display: inline-flex; align-items: center; gap: 10px; font-weight: 700; text-decoration: none; padding: 12px 18px; border-radius: 10px; background: var(--fondo); }
+.ig svg { width: 20px; height: 20px; color: var(--principal); }
+.redes { padding-top: 0; }
+
+/* Urgencia final */
+.final { padding-top: 0; }
+.final .wrap { display: grid; grid-template-columns: minmax(0, 1fr) auto; align-items: center; gap: 24px 40px; padding: clamp(32px, 5vw, 56px); border-radius: 24px; background: var(--alerta); color: var(--tinta); }
+.final h2 { font-size: clamp(2.2rem, 5vw, 3.8rem); }
+.final p { margin-top: 10px; font-weight: 600; }
+.final .acciones { display: flex; flex-wrap: wrap; gap: 10px; }
+.final .btn { background: var(--tinta); color: #fff; }
+.final .btn.blanco { background: #fff; color: var(--tinta); }
+
+/* Pie */
+.pie { padding: 40px 0 28px; border-top: 1px solid var(--linea); background: var(--papel); }
+.pie .wrap { display: flex; flex-wrap: wrap; justify-content: space-between; align-items: center; gap: 16px; }
+.pie p { color: var(--suave); font-size: .9rem; }
+.pie .ig-pie { display: inline-flex; align-items: center; gap: 8px; font-weight: 700; text-decoration: none; }
+.pie .ig-pie svg { width: 18px; height: 18px; }
+
+/* Barra fija en celulares */
+.bar { display: none; }
+@media (max-width: 760px) {
+  .bar { position: fixed; left: 10px; right: 10px; bottom: 10px; z-index: 80; display: grid; grid-template-columns: 1fr 1fr; gap: 8px; padding: 8px; border-radius: 16px; background: var(--tinta); box-shadow: 0 16px 40px -10px #0b1726aa; }
+  .bar a { display: flex; align-items: center; justify-content: center; gap: 8px; min-height: 50px; border-radius: 10px; font-weight: 800; text-decoration: none; color: #fff; background: #ffffff14; }
+  .bar a.wa-bar { background: #25d366; color: #06301a; }
+  .bar svg { width: 20px; height: 20px; }
+  body { padding-bottom: 84px; }
+}
+
+/* Responsive */
+@media (max-width: 980px) {
+  .tel-head small, .tel-head span { display: none; }
+  .hero { background: var(--fondo); }
+  .hero .wrap, .porque, .zonas, .servicios-grid { grid-template-columns: minmax(0, 1fr); }
+  .pasos { grid-template-columns: 1fr 1fr; }
+  .pasos li, .pasos li:first-child, .pasos li:last-child { border-radius: 14px; }
+  .final .wrap { grid-template-columns: 1fr; }
+}
+@media (max-width: 760px) {
+  .cta-head { display: none; }
+  .problemas { grid-template-columns: 1fr; }
+  .pasos { grid-template-columns: 1fr; }
+}
